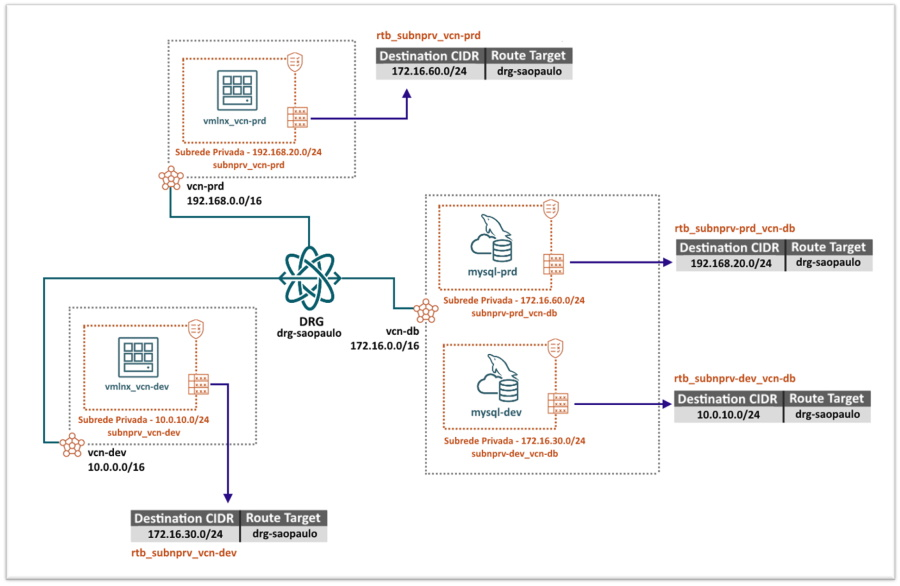
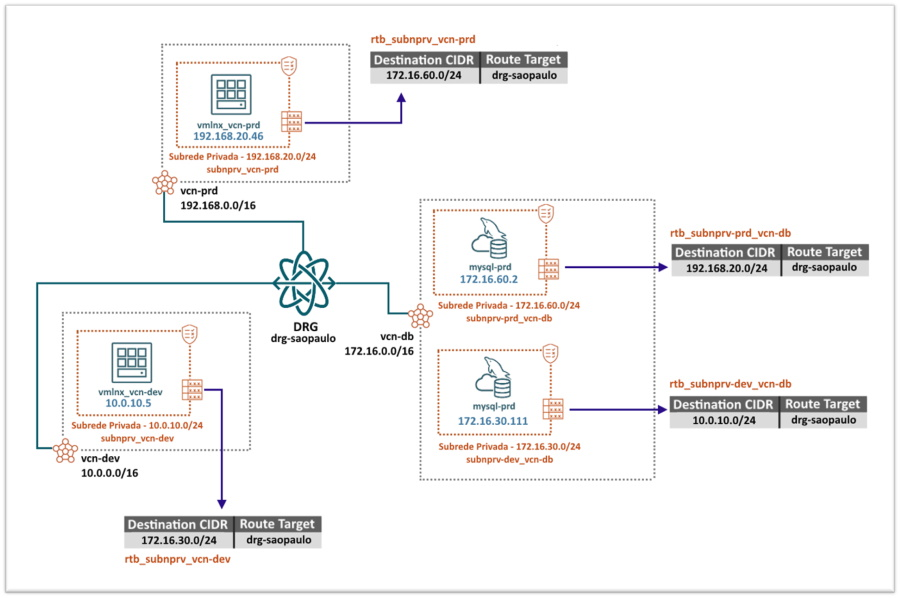
Writing about Netwoking

Changed region(s): [[0.0311, 0.0307, 0.9956, 0.9522], [0.0, 0.9829, 0.9956, 1.0]]

diff --git a/chapter-5/5-1_mais-sobre-redes-multiplas-vcn-lpg-drg.md b/chapter-5/5-1_mais-sobre-redes-multiplas-vcn-lpg-drg.md
@@ -1022,6 +1022,8 @@ darmbrust@hoodwink:~$ oci network subnet create \
 
 #### Teste de conectividade
 
+Tendo alguns instâncias criadas nas respectivas subredes, é possível realizar um simples teste pelo utilitário ping
+
 ```
 [opc@vmlnx_vcn-prd ~]$ ping -c 3 172.16.60.2
 PING 172.16.60.2 (172.16.60.2) 56(84) bytes of data.
@@ -1032,4 +1034,16 @@ PING 172.16.60.2 (172.16.60.2) 56(84) bytes of data.
 --- 172.16.60.2 ping statistics ---
 3 packets transmitted, 3 received, 0% packet loss, time 2074ms
 rtt min/avg/max/mdev = 0.539/0.552/0.564/0.029 ms
+```
+
+```
+[opc@vmlnx_vcn-dev ~]$ ping -c 3 172.16.30.111
+PING 172.16.30.111 (172.16.30.111) 56(84) bytes of data.
+64 bytes from 172.16.30.111: icmp_seq=1 ttl=63 time=0.436 ms
+64 bytes from 172.16.30.111: icmp_seq=2 ttl=63 time=0.563 ms
+64 bytes from 172.16.30.111: icmp_seq=3 ttl=63 time=0.396 ms
+
+--- 172.16.30.111 ping statistics ---
+3 packets transmitted, 3 received, 0% packet loss, time 2061ms
+rtt min/avg/max/mdev = 0.396/0.465/0.563/0.071 ms
 ```
